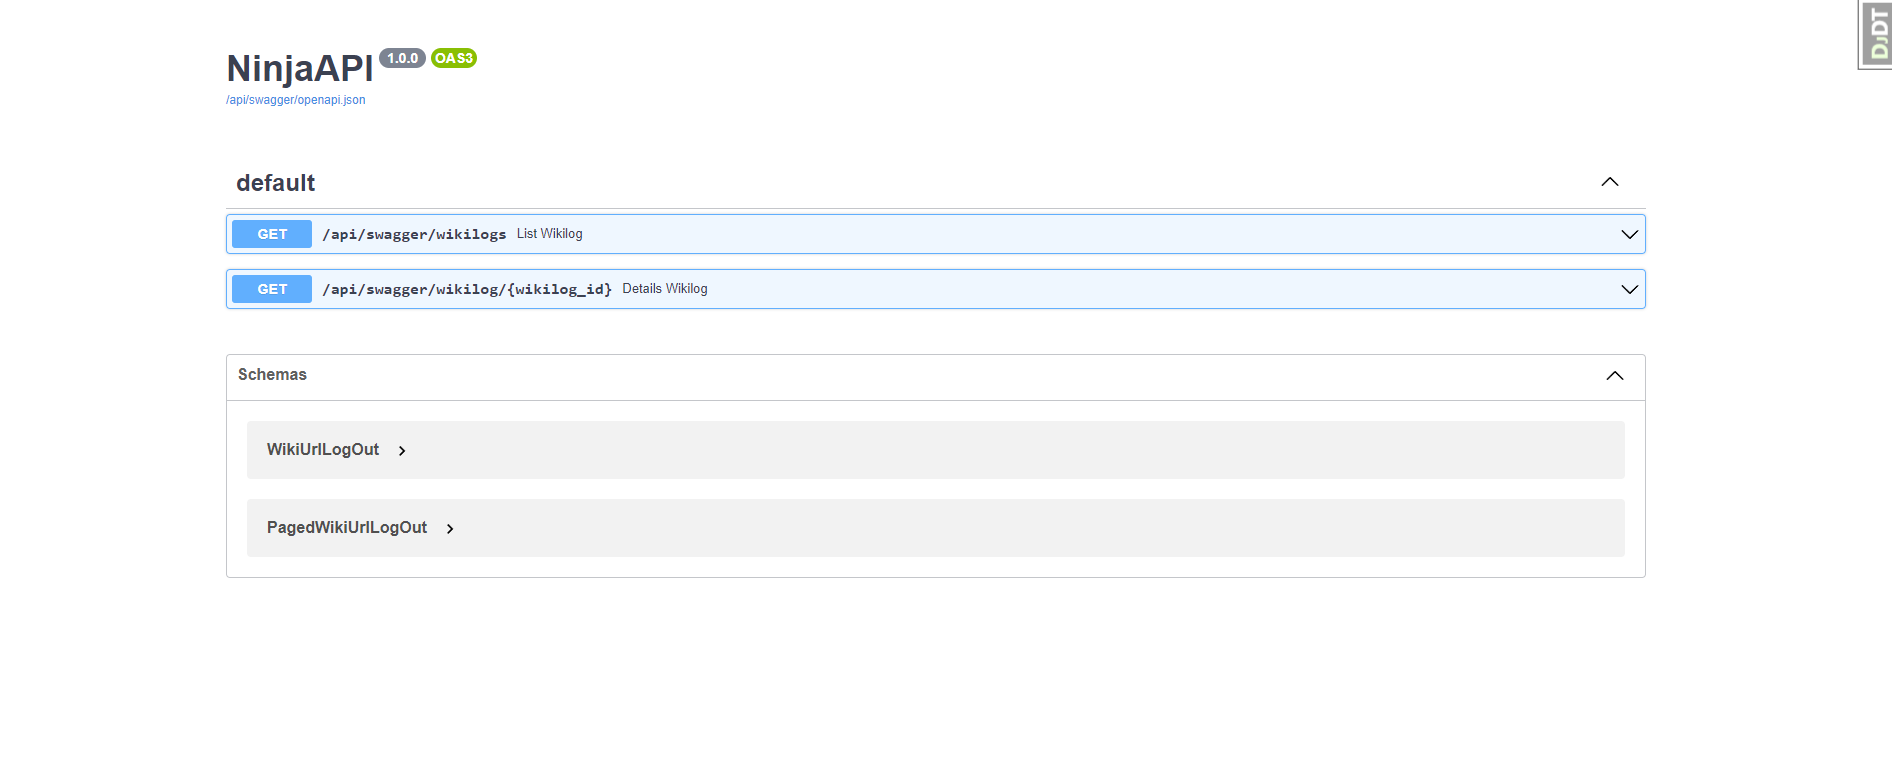
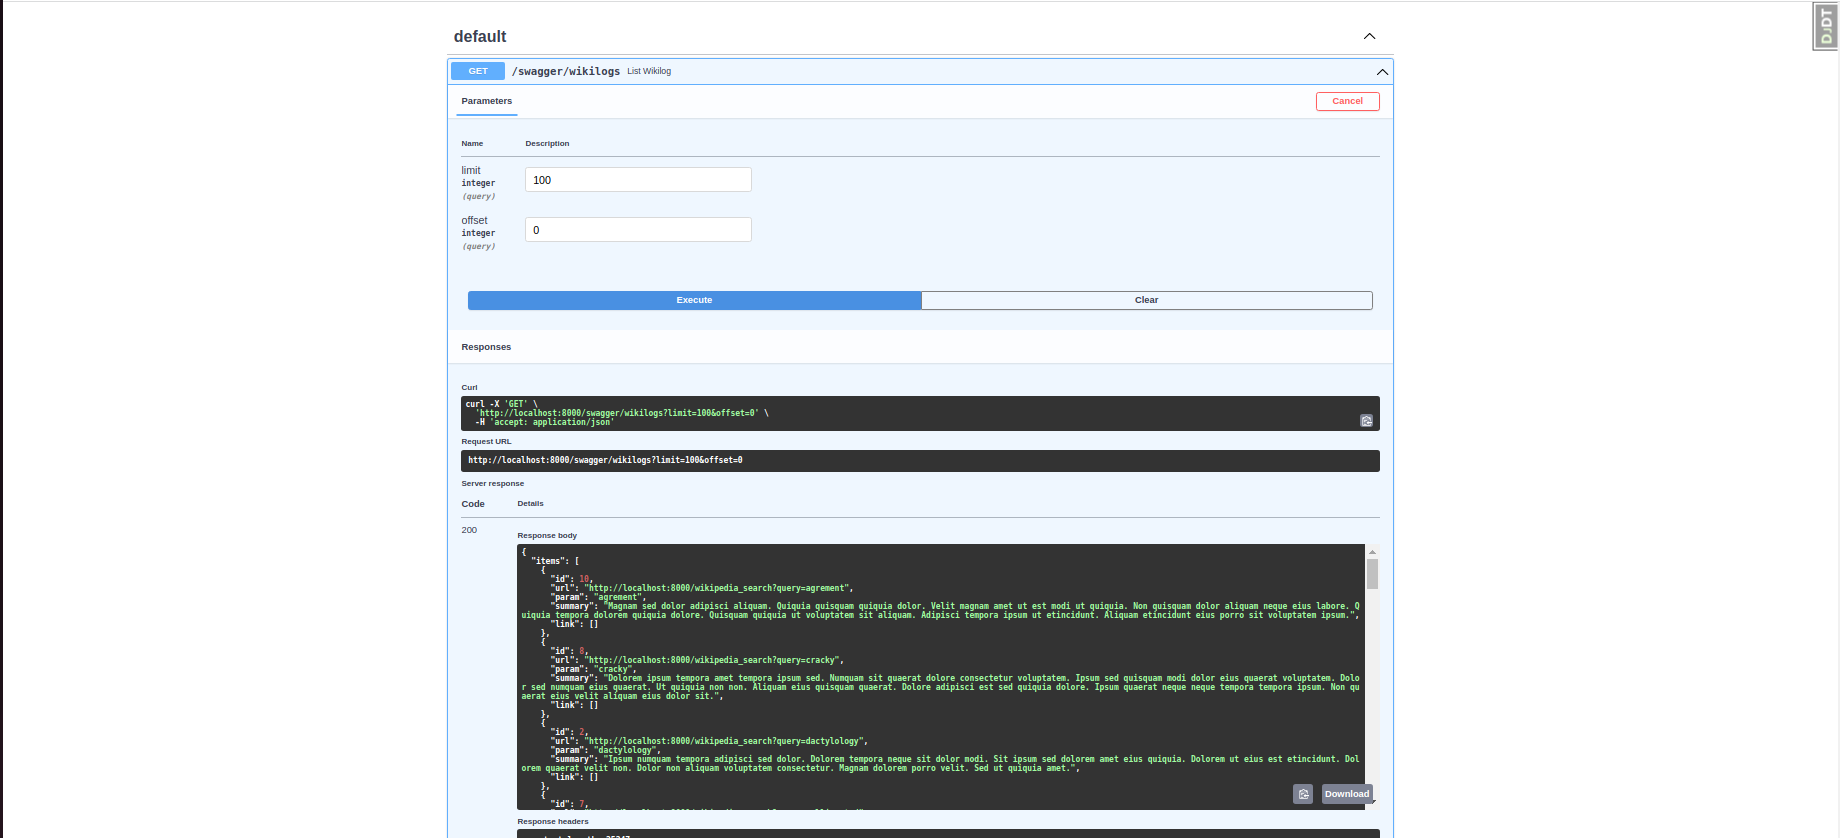
readme, images

diff --git a/django_study/celery.py b/django_study/celery.py
@@ -16,7 +16,14 @@ app.config_from_object("django.conf:settings", namespace="CELERY")
 # Load task modules from all registered Django apps.
 app.autodiscover_tasks()
 
-
 @app.task(bind=True)
 def debug_task(self):
     print(f"Request: {self.request!r}")
+
+
+app.conf.beat_schedule = {
+    'wikilog_count': {
+        'task': 'wikilog_count',  
+        'schedule': 60.0,
+    },
+}  

diff --git a/wikisearch/tasks.py b/wikisearch/tasks.py
@@ -9,7 +9,7 @@ from .logger import logger
 from .services import mail_wikilog
 
 
-@shared_task
+@shared_task(name = "wikilog_count")
 def check_wikilog_count():
     logger.info("WikiUrlLog...")
 

diff --git a/README-en.md b/README-en.md
@@ -1,96 +1,100 @@
 PYTHON TEST
 
 # Self-training in Django by example
-* The purpose of this repo is to try to help, many thanks to the Python Django community
+*The goal of this repo is to try to help, many thanks to the Python Django community
 
 ## Objective
 * Present a project in Python Django with search integration via Wikipedia's APIs
 - https://www.djangoproject.com
 - https://wikipedia-api.readthedocs.io
 
-## Installation of your **python 3.10** development environment
-* Creation of a python3.10+ env either by venv module or by virtualenv wrapper (https://virtualenvwrapper.readthedocs.io/en/latest/install.html)
-- venv in 3.10.6 for my part under wsl2 (https://docs.microsoft.com/fr-fr/windows/wsl/install)
-* clone the project (https://github.com/pahpa/django-study)
+## Installing your **python 3.10** development environment
+* Creation of a python3.10+ env either by the venv module or by virtualenv wrapper (https://virtualenvwrapper.readthedocs.io/en/latest/install.html)
+- venv in 3.10.6 for me under wsl2 (https://docs.microsoft.com/fr-fr/windows/wsl/install)
+* clone of the project (https://github.com/pahpa/django-study)
+* sudo apt install graphviz-dev
+* sudo apt install translate-shell
 * pip install -r requirements-tests.txt
 * python manage.py migrate
 * Creation of an internal superuser
 ```console
 cat <<EOF | python manage.py shell
 from django.contrib.auth import get_user_model
-User = get_user_model()
-User.objects.filter(username='pahpa').exists() or \
+User u003d get_user_model()
+User.objects.filter(usernameu003d'pahpa').exists() or \
 User.objects.create_superuser('pahpa', 'pahpa@pahpa.dev', 'pahpa1234')
 EOF
 ```
-* coverage run --source='.' manage.py test
+* coverage run --sourceu003d'.' manage.py test
 * coverage report
 * make runserver
-* make celery-run (launch celery in interactive otherwise celeryd-run in daemon mode)
-* make createdatatests (will create 1 game of a few words)
+* make celery-run (launch celery interactively otherwise celeryd-run in daemon mode)
+* make createdatatests (will create a set of a few words for you)
 * http://localhost:8000 (launching django dev server 'localhost:8000')
-* http://localhost:8000/admin (admin access interface, using the 'pahpa' account you created before)
+* http://localhost:8000/admin (admin access interface, use of the 'pahpa' account that you created before)
 * http://localhost:8000/swagger/docs (interface swagger REST API, test de django_ninja)
 * to kill the celery daemon: make celery-kill
 * to follow the celery log: tail -f /var/tmp/wiki_c.log
 
-## paHpa (Procedure)
+## paHpa (Progress)
 
 * My work philosophy has always been sharing, reuse
-* For many years, I have used the admin app a lot for the backoffice and for this I have put a theme, others exist with
+* For many years, I have used the admin app a lot for the back office and for this I have put a theme, others exist with
 more advanced widgets.
 
-1. List of logs Research Wiki
+1. List of search Wiki logs
 ![](images/DjangoWikilog_list.png)
-2. Detail of a research Wiki log
+2. Details of a search Wiki log
 ![](images/DjangoWikilog_detail.png)
-3. List a page's Wikilog link
+3. List of Wikilog links on a page
 ![](images/DjangoWikilink_list.png)
-4. Detail of the Wikilog links of a page
+4. Details of Wikilog links on a page
 ![](images/DjangoWikilink_detail.png)
 
-* I used the celery server for the recurring task of testing the number of urls in the database (no rabbitmq, but redis)
-(that of checking the number of links of a page > 100)
-* Celery in Console mode while running a task (https://docs.celeryq.dev/en/stable/)
+* I used the celery server for the recurring task of testing the number of urls in the database (not rabbitmq, but redis)
+(that of checking the number of links on a page > 100)
+* Celery in Console mode during the execution of a task every 60 seconds (https://docs.celeryq.dev/en/stable/)
+- This will be automatically created when the django server starts
 ![](images/C_console.png)
 * Admin Celery via Django (https://docs.celeryq.dev/en/stable/django/first-steps-with-django.html)
 
-1. Creating a one minute crontab (https://django-celery-beat.readthedocs.io/en/latest/):
-- List des configurations crontab
-![](./docs/images/C_crontabs_list.png)
-- Configuration detail
-![](./docs/images/C_crontabs.png)
+1. Interval:
+- List interval
+![](images/C_interval_list.png)
+- Interval detail
+![](images/C_interval.png)
 
-2. Activation task:
+2. Periodic task:
 - List des tasks
-![](./docs/images/C_tasks_list.png)
-- Detail of a task
-![](./docs/images/C_tasks_1.png)
-![](./docs/images/C_tasks_2.png)
+![](images/C_task_list.png)
+- Details of a task
+![](images/C_task_detail1.png)
+![](images/C_task_detail2.png)
 
 3. Result task (https://django-celery-results.readthedocs.io/en/latest/):
 - List of task results
-![](./docs/images/C_result_list.png)
-- Detail of a task result
-![](./docs/images/C_result.png)
+![](images/C_result_list.png)
+- Details of a task result
+![](images/C_result.png)
 
 * Application django_study (http://localhost:8000/)
+- Please forgive me for my excellent Front-End display :)
 
 1. Main Screen
-![](./docs/images/wikiapp_list.png)
-- In the input box put a word, a search phrase, a synchronous search action on wikipedia will be executed
+![](images/wikiapp_list.png)
+- In the input box put a word, a search phrase, a synchronous search action on Wikipedia will be executed
 (the best being to have 1 async action with progress info or celery-progress)
 - An automatic refresh of the screen will be done
 - You can click on the link if the search was successful (Code 200) otherwise a 404 code for a page not found
-- Test game generate words, url, return code randomly without any wikipedia access
+- The test game generates words, url, return code randomly without any access to Wikipedia
 
 2. Detail Link
-![](./docs/images/wikiapp_detail.png)
+![](images/wikiapp_links.png)
 
-## paHpa (My Settings Choices)
+## paHpa (My Choice Settings)
 
 ```
-INSTALLED_APPS = [
+INSTALLED_APPS u003d [
 'jazzmin',
 'django.contrib.admin',
 'django.contrib.auth',
@@ -113,13 +117,13 @@ INSTALLED_APPS = [
 ```
 
 - jazzmin for a django admin theme
-- rest_framework for the json serializer because I wanted to do 1 clean json return and generate a form but it was for pure pleasure, I
-don't use it
-- django_extensions l'extension indispensable pour django
-- django_tables2, not being gifted in html, I like to be helped by APIs
-- debug_toolbar essential debug front tools for the dev
+- rest_framework for the json serializer because I wanted to make 1 clean json return and generate a form but it was for pure pleasure, I
+don't use it for me
+- django_extensions the essential extension for django
+- django_tables2, not being good at html, I like to get help from APIs
+- debug_toolbar front-end debug tools essential for dev
 - jsoneditor json field frankly at the top
-- django_celery_results le retour des task celery en database
+- django_celery_results the return of task celery to the database
 - django_celery_beat scheduler, admin task celery
 - api the business app
 
@@ -130,15 +134,28 @@ don't use it
 - sudo apt install libgraphviz-dev
 - sudo apt install graphviz
 
-- generation dot or png file of the model groups of our project:
+- generation of dot or png files of groups of models of our project:
 ```
-./manage.py graph_models --pygraphviz -a -g -o docs/images/models_wikisearch.png
+./manage.py graph_models --pygraphviz -a -g -o images/models_wikisearch.png
 ```
-![](./docs/images/models_wikisearch.png)
+![](images/models_wikisearch.png)
 
 ## paHpa (Using swagger)
 
-- using django-ninja (https://django-ninja.rest-framework.com/)
-- accessible for wikilogs list and search (http://localhost:8000/api/swagger/docs)
+- use of django-ninja (https://django-ninja.rest-framework.com/)
+- accessible for listing and searching wikilogs (http://localhost:8000/swagger/docs)
 
-![](./docs/images/DjangoSwaggerWikilog.png)
+![](images/DjangoSwagger.png)
+![](images/DjangoSwaggerWikilog.png)
+![](images/DjangoSwaggerWikilogDetail.png)
+
+## paHpa (Docker)
+
+- https://blog.logrocket.com/dockerizing-django-app/
+```
+docker kill django-study || true
+docker rm -f django-study || true
+docker image rm -f django-study:0.0.0 || true
+docker build . -t django-study:0.0.0
+docker run --name django-study -p 127.0.0.1:8000:8000 django-study:0.0.0
+```

diff --git a/README-fr.md b/README-fr.md
@@ -12,6 +12,8 @@ PYTHON TEST
 * Création d'un env python3.10+ soit par le module venv ou par virtualenv wrapper (https://virtualenvwrapper.readthedocs.io/en/latest/install.html)
   - venv en 3.10.6 pour ma part sous wsl2 (https://docs.microsoft.com/fr-fr/windows/wsl/install)
 * clone du projet (https://github.com/pahpa/django-study)
+* sudo apt install graphviz-dev
+* sudo apt install translate-shell
 * pip install -r requirements-tests.txt
 * python manage.py migrate
 * Création d'un superuser interne
@@ -51,33 +53,35 @@ des widgets plus poussés.
 
 * J'ai utilisé le serveur celery pour la tâche récurrente de test sur le nombre d'url en base de données (pas de rabbitmq, mais redis)
   (celle de check le nombre de link d'une page > 100)
-* Celery en mode Console durant l'exécution d'une task (https://docs.celeryq.dev/en/stable/)
+* Celery en mode Console durant l'exécution d'une task toutes les 60 secondes (https://docs.celeryq.dev/en/stable/)
+  - Celle-ci sera automatiquement créée au démarrage du serveur django
   ![](images/C_console.png)
 * Admin Celery via Django (https://docs.celeryq.dev/en/stable/django/first-steps-with-django.html)
+  
+  1. Interval:
+    - List interval
+    ![](images/C_interval_list.png)
+    - Détail interval
+    ![](images/C_interval.png)
 
-  1. Création d'une crontab d'une minute (https://django-celery-beat.readthedocs.io/en/latest/):
-    - List des configurations crontab
-    ![](./docs/images/C_crontabs_list.png)
-    - Détail de la configuration
-    ![](./docs/images/C_crontabs.png)
-    
-  2. Activation task:
+  2. Periodic task:
     - List des tasks
-    ![](./docs/images/C_tasks_list.png)
+    ![](images/C_task_list.png)
     - Detail d'une task
-    ![](./docs/images/C_tasks_1.png)
-    ![](./docs/images/C_tasks_2.png)
+    ![](images/C_task_detail1.png)
+    ![](images/C_task_detail2.png)
 
   3. Result task (https://django-celery-results.readthedocs.io/en/latest/): 
     - List des résultats des tasks
-    ![](./docs/images/C_result_list.png)
+    ![](images/C_result_list.png)
     - Détail d'un résultat d'une task
-    ![](./docs/images/C_result.png)
+    ![](images/C_result.png)
 
 * Application django_study (http://localhost:8000/)
+  - Veuillez me pardonner mon excellent affichage Front-End :)
   
   1. Ecran Principal
-    ![](./docs/images/wikiapp_list.png)
+    ![](images/wikiapp_list.png)
     - Dans la zone de saisie mettre un mot, une phrase de recherche, une action synchrone de recherche sur wikipedia sera exécutée
     (le mieux étant d'avoir 1 action async avec info de progression ou celery-progress)
     - Un rafraichissement automatique de l'écran sera fait
@@ -85,7 +89,7 @@ des widgets plus poussés.
     - Le jeu de test génére des mots, url, code de retour aléatoirement sans aucun accès à wikipedia
   
   2. Lien Détail
-    ![](./docs/images/wikiapp_detail.png)
+    ![](images/wikiapp_links.png)
 
 ## paHpa (Mes Choix Settings)
 
@@ -132,24 +136,26 @@ des widgets plus poussés.
 
 - génération fichier dot ou png des groupes de models de notre projet:
   ```
-  ./manage.py graph_models --pygraphviz -a -g -o docs/images/models_wikisearch.png
+  ./manage.py graph_models --pygraphviz -a -g -o images/models_wikisearch.png
   ```
-  ![](./docs/images/models_wikisearch.png)
+  ![](images/models_wikisearch.png)
 
 ## paHpa (Utilisation de swagger)
 
 - utilisation de django-ninja (https://django-ninja.rest-framework.com/)
 - accessible pour la liste et la recherche des wikilogs (http://localhost:8000/swagger/docs)
   
-  ![](./docs/images/DjangoSwaggerWikilog.png)
+  ![](images/DjangoSwagger.png)
+  ![](images/DjangoSwaggerWikilog.png)
+  ![](images/DjangoSwaggerWikilogDetail.png)
 
 ## paHpa (Docker)
 
 - https://blog.logrocket.com/dockerizing-django-app/
   ```
   docker kill django-study || true
-	docker rm -f django-study || true
-	docker image rm -f django-study:0.0.0 || true
-	docker build . -t django-study:0.0.0
-	docker run --name django-study -p 127.0.0.1:8000:8000 django-study:0.0.0
+  docker rm -f django-study || true
+  docker image rm -f django-study:0.0.0 || true
+  docker build . -t django-study:0.0.0
+  docker run --name django-study -p 127.0.0.1:8000:8000 django-study:0.0.0
   ```

diff --git a/README.md b/README.md
@@ -1,4 +1,5 @@
-## Documentation
+## Django
+Small example of self-training with Python Django, Celery
 
 - [Documentation in French](./README-fr.md)
 - [Documentation in English](./README-en.md)
